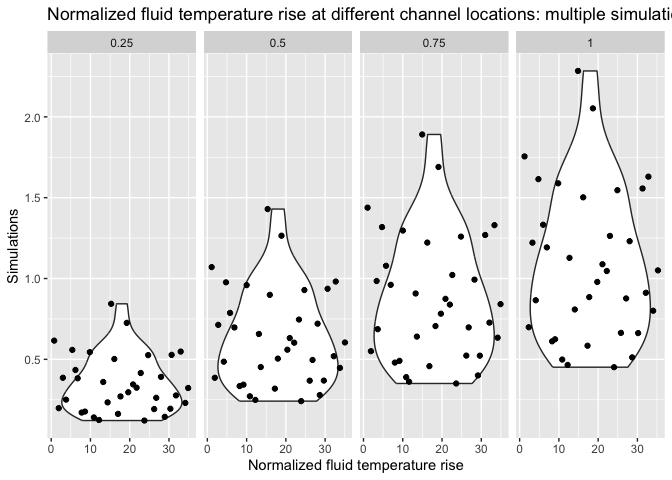
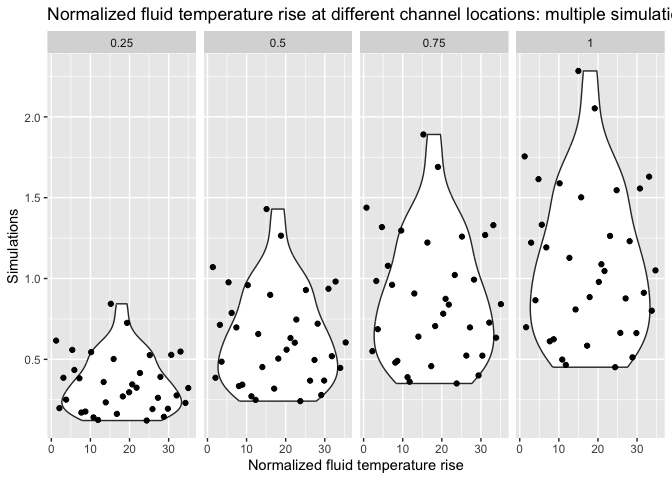
Resubmit Challenge 11

diff --git a/data-science-curriculum-build-2/challenges/c11-psaap-assignment.md b/data-science-curriculum-build-2/challenges/c11-psaap-assignment.md
@@ -294,7 +294,7 @@ df_q2 <- df_psaap[,c("x", "idx", "T_norm")]
 df_q2 %>% 
   ggplot(aes(x = idx, y = T_norm)) +
   geom_violin() +
-  geom_jitter() +
+  geom_jitter(height = 0) +
   facet_grid(~x) +
   labs(
     title = "Normalized fluid temperature rise at different channel locations: multiple simulations",
@@ -368,22 +368,22 @@ fit_nonphysical <-
 ## TODO: Compute a measure of accuracy for each fit above;
 ##       compare their relative performance
 
-mse(fit_baseline, df_train)
+mse(fit_baseline, df_validate)
 ```
 
-    ## [1] 0.1515338
+    ## [1] 0.08092764
 
 ``` r
-mse(fit_cheat, df_train)
+mse(fit_cheat, df_validate)
 ```
 
-    ## [1] 0.05194415
+    ## [1] 0.05371774
 
 ``` r
-mse(fit_nonphysical, df_train)
+mse(fit_nonphysical, df_validate)
 ```
 
-    ## [1] 0.2322454
+    ## [1] 0.1590517
 
 **Observations**:
 
@@ -395,9 +395,8 @@ mse(fit_nonphysical, df_train)
   predictor?
   - Avg_T is in the output category
   - It is an effective predictor as it takes the average temperature
-    across a plane, which is heavily correlated with the other variables
-    we are considering, x and T_norm, as x is position and T_norm is
-    normalized temperature.
+    across a plane, which is used to calculate T_norm as specified by
+    the equation above
 - Would we have access to `avg_T` if we were trying to predict a *new*
   value of `T_norm`? Is `avg_T` a valid predictor?
   - We would not have access to avg_T as it is an output variable, thus
@@ -469,15 +468,20 @@ df_psaap %>%
   - T_f: 38.94
 - How do these standard deviations relate to the regression coefficients
   for `x` and `T_f`?
-  - These values both indicate how influential a variable is on the
-    model
+  - The standard deviations indicate the variation of each of the
+    quantities
+  - The regression coefficients for x and T_f shows each of the value’s
+    change
+  - When combined, these values show the variation of the output based
+    on x and T_f, which then informs us of the relative importance of x
+    and T_f as predictors
 - Note that literally *all* of the inputs above have *some* effect on
   the output `T_norm`; so they are all “significant” in that sense. What
   does this tell us about the limitations of statistical significance
   for interpreting regression coefficients?
   - relying on statistical significance can lead us to leave out values
     that are physically significant, especially in engineering or
-    scienctific contexts
+    scientific contexts
 
 ## Contrasting CI and PI
 
@@ -696,27 +700,79 @@ pr_level <- 0.8
 #        at the point `df_design`
 
 
-# Note: I was not able to finish this one as I was had a hard time understanding
-# this process. I would like some help on this in class if possible. 
+
+fit_q6 <- 
+  df_train %>% 
+  lm(formula = T_norm ~ x + L + W + U_0) 
+
+df_uncertain <- df_design %>%  # Start with design data
+  add_uncertainties(
+    model = fit_q6,  # Reference the fitted model
+    interval = "prediction",
+    prefix = "pi",
+    level = pr_level
+  )
+
+df_uncertain
 ```
+
+    ## # A tibble: 1 × 7
+    ##       x     L     W   U_0 pi_fit pi_lwr pi_upr
+    ##   <dbl> <dbl> <dbl> <dbl>  <dbl>  <dbl>  <dbl>
+    ## 1     1   0.2  0.04     1   1.88   1.46   2.30
+
+``` r
+mse(fit_q6, df_validate)
+```
+
+    ## [1] 0.04932746
+
+``` r
+df_uncertain_withpi <- df_validate %>% 
+  add_uncertainties(
+    model = fit_q6,
+    interval = "prediction",
+    prefix = "pi",
+    level = pr_level
+  )
+
+coverage <- df_uncertain_withpi %>% 
+  summarise(within_interval = mean(T_norm >= pi_lwr & T_norm <= pi_upr)) %>% 
+  pull(within_interval)
+
+coverage
+```
+
+    ## [1] 0.9333333
 
 **Recommendation**:
 
 - How much do you trust your model? Why?
-  - (Your response here)
+  - I moderately trust my model as it uses physically significant
+    predictors that match the design parameters
+  - It could be improved by adding more relevant, significant variables
+  - the MSE calculations show that the model has relatively good
+    predictive power
 - What kind of interval—confidence or prediction—would you use for this
   task, and why?
-  - (Your response here)
+  - I would use prediction (which is what I used) because we need to
+    account for uncertainty in the parameters and random variability in
+    future observations
 - What fraction of validation cases lie within the intervals you
   predict? (NB. Make sure to calculate your intervals *based on the
   validation data*; don’t just use one single interval!) How does this
   compare with `pr_level`?
-  - (Your response here)
+  - I found that about 93.3% of actual T_norm values fall within the
+    prediction intervals
+  - My pr_level is greater than the provided pr_level
 - What interval for `T_norm` would you recommend the design team to plan
   around?
-  - (Your response here)
+  - The interval for T_norm they should plan around is 1.45685-2.296426
 - Are there any other recommendations you would provide?
-  - (Your response here)
+  - If the interval is too large, control more variables
+  - Validate with physical testing
+  - conduct additional analyses to identify which uncontrolled variables
+    have the strongest impact on T_norm
 
 *Bonus*: One way you could take this analysis further is to recommend
 which other variables the design team should tightly control. You could
